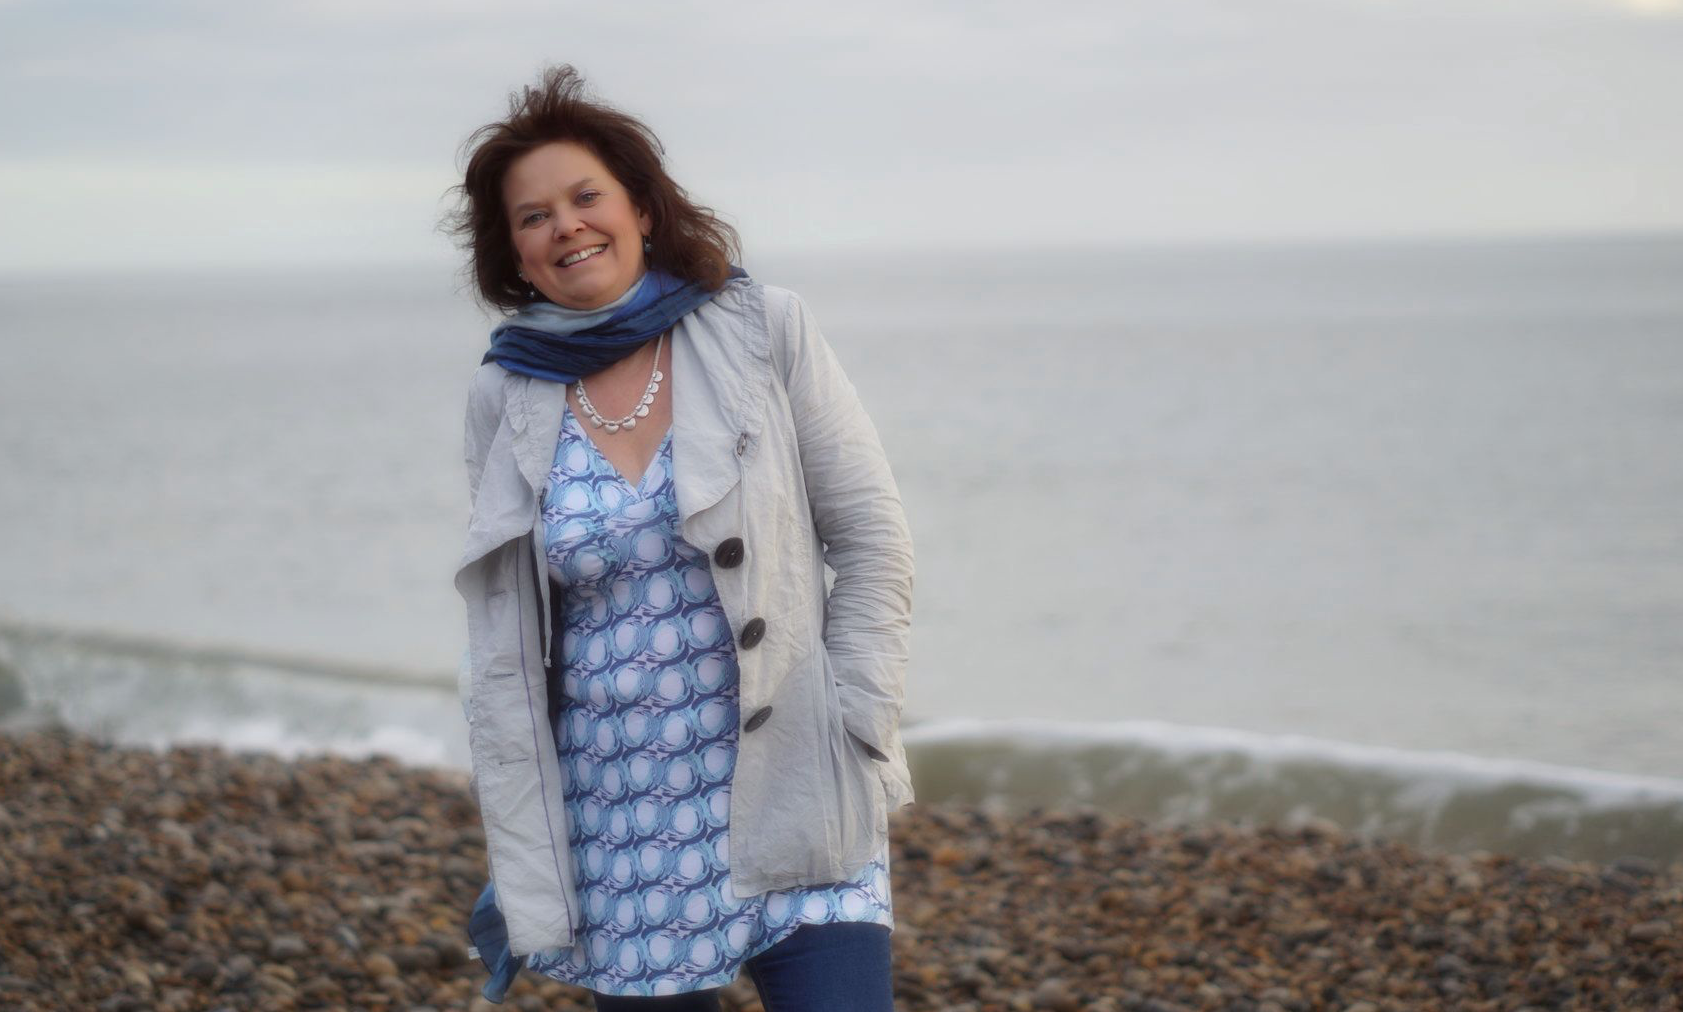
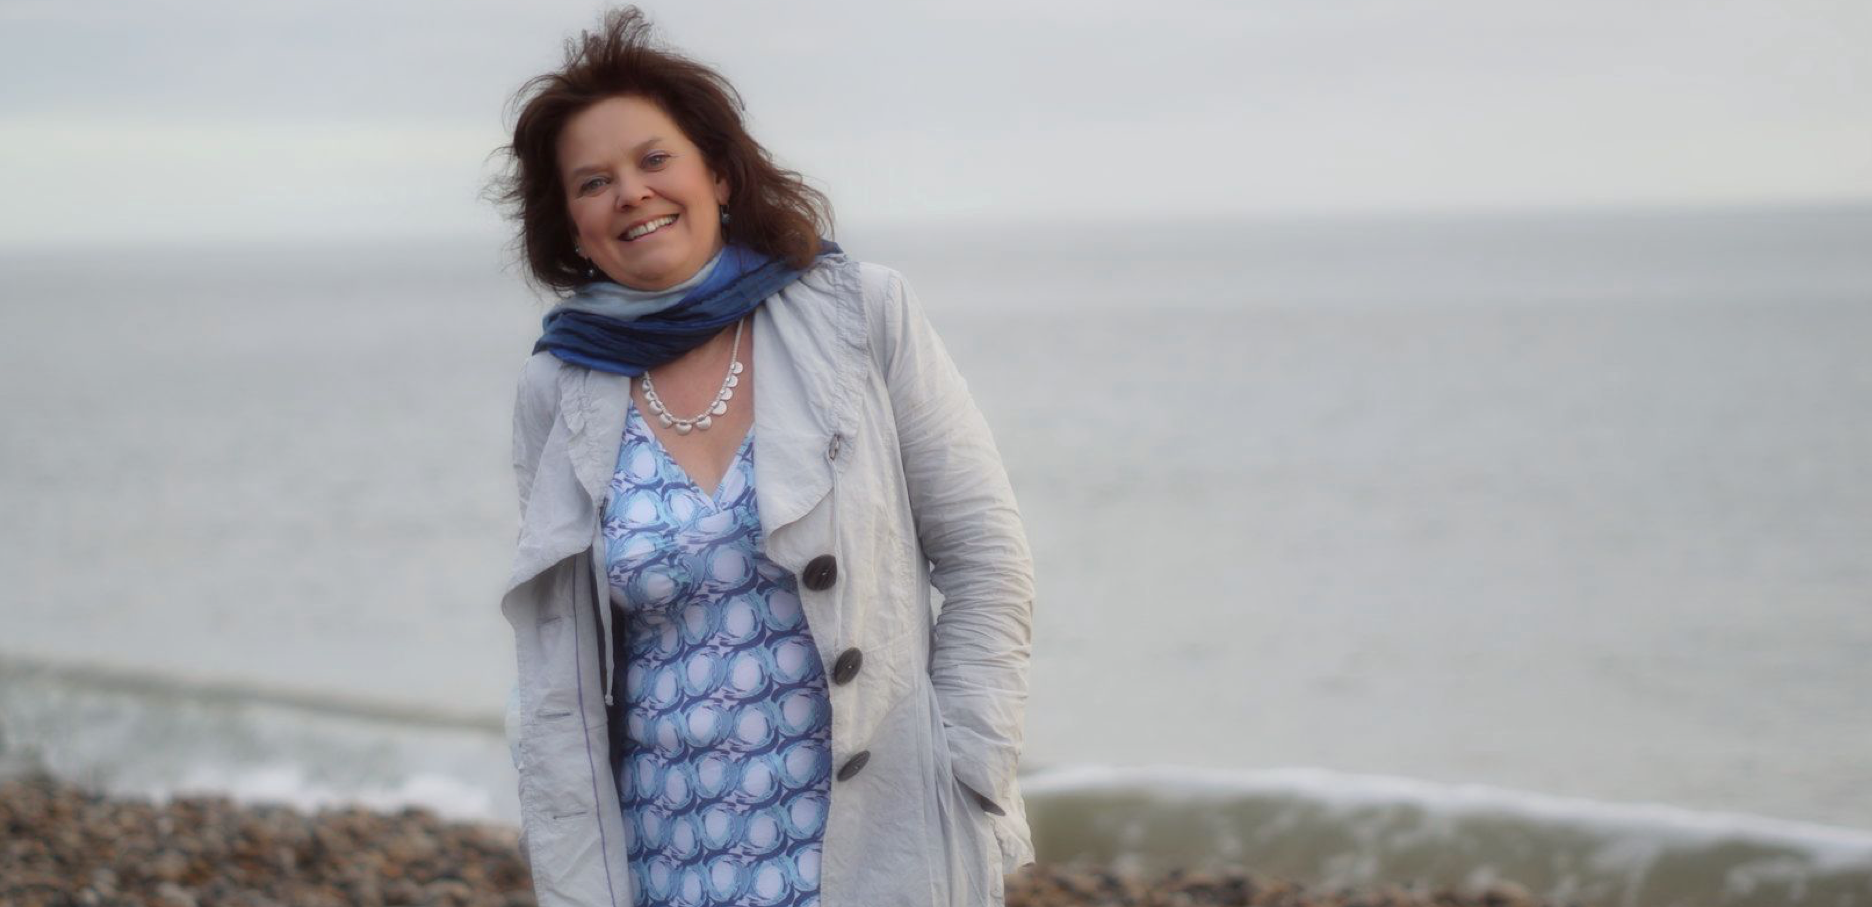
style changes to nav and header

diff --git a/index.html b/index.html
@@ -14,6 +14,8 @@
                 <li>Contact</li>
             </ul>
         </nav>
-        <img class= 'headerphoto' src='images/beach.png' alt='Katheryn Hope'>
+        <div class = 'header'>
+            <img src='images/beach.png' alt='Katheryn Hope'>
+        </div>      
     </body>
 </html>

diff --git a/style.css b/style.css
@@ -3,8 +3,20 @@
     padding: 0; 
 }
 
-.headerphoto {
-    width: 90%;
+nav {
+    float: right;
+}
+
+nav ul li {
+    display: inline-block;
+}
+
+.header {
+    text-align: center;
+}
+
+.header img {
+    width: 95%;
     text-align: center;
     margin: auto;
 }
